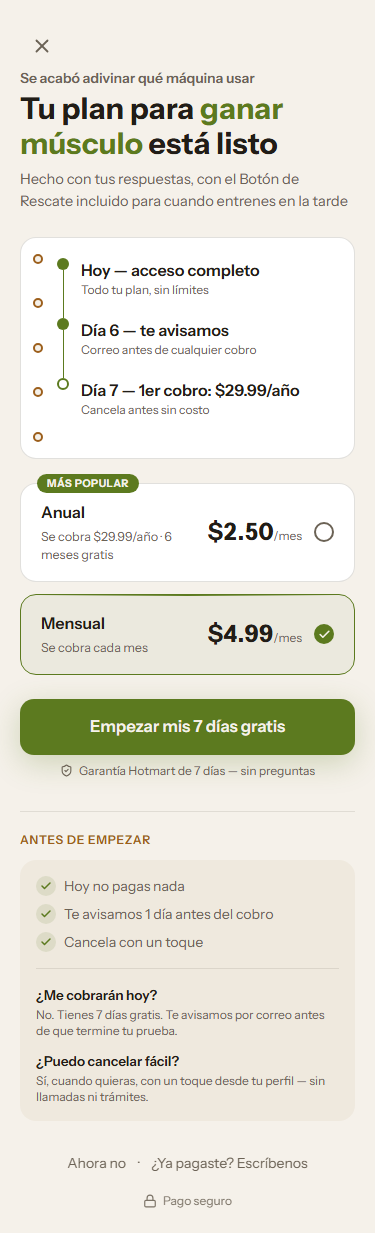
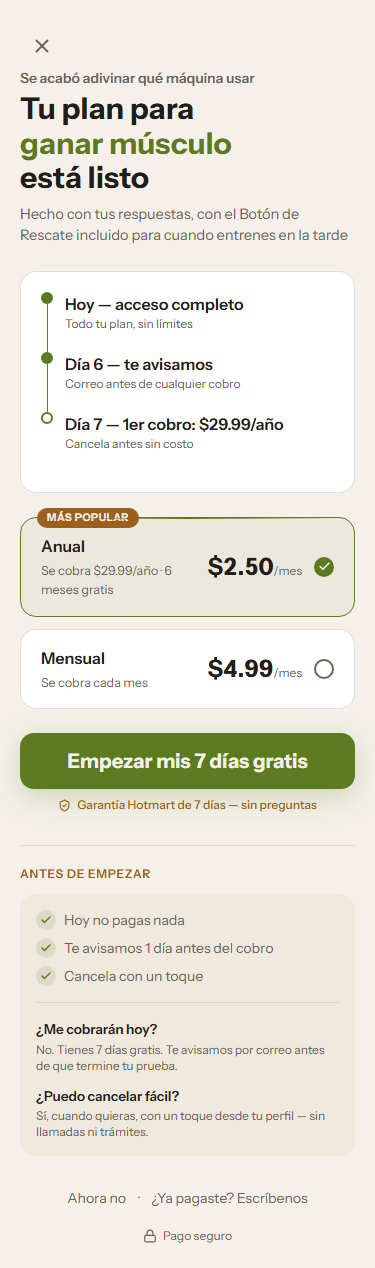
fix: paywall — cierre de 8 rondas de correcciones reales, retiro del dispositivo ownable fallido
Corrige bugs reales de comportamiento y accesibilidad: cancelar durante la
espera de checkout (con limpieza real de timers), contraste AA del banner
de error y del CTA principal, viuda tipográfica del titular, borde
inconsistente en PlanCard. Se retira el dispositivo "espiral" del timeline
tras 2 rondas fallidas (invisible, luego mal alineado) — se documenta como
intento fallido en vez de seguir parchándolo.

Lo que queda sin resolver es una decisión de identidad/paleta (documentada
en ESTADO.md como problema conocido, no bug de código) — el propio
revisor-visual recomendó parar y escalar la conversación con el usuario en
vez de seguir con ajustes puntuales de CSS.

diff --git a/app/paywall/page.tsx b/app/paywall/page.tsx
@@ -8,7 +8,7 @@
 // todavía (el usuario no las ha puesto en Vercel), cae de vuelta al mock
 // anterior (/login) para no romper nada mientras se conectan.
 
-import { useEffect, useState } from 'react';
+import { useEffect, useRef, useState } from 'react';
 import { useRouter } from 'next/navigation';
 import { motion, useReducedMotion } from 'motion/react';
 import { AlertTriangle, Check, Loader2, Lock, ShieldCheck, X } from 'lucide-react';
@@ -25,6 +25,7 @@ export default function PaywallPage() {
   const [plan, setPlan] = useState<PlanId>('anual');
   const [redirigiendo, setRedirigiendo] = useState(false);
   const [errorRedirect, setErrorRedirect] = useState<string | null>(null);
+  const timersRef = useRef<ReturnType<typeof setTimeout>[]>([]);
 
   // sessionStorage no existe en el servidor: leerlo en el initializer de
   // useState causa mismatch de hydration. Este efecto es la forma correcta.
@@ -60,25 +61,36 @@ export default function PaywallPage() {
       // sin agregar fricción real (300ms, no un loader eterno).
       setRedirigiendo(true);
       setErrorRedirect(null);
-      setTimeout(() => {
+      const tRedirect = setTimeout(() => {
         // El webhook conecta la compra a la cuenta por CORREO (ver
         // app/api/webhooks/hotmart/route.ts) — no hace falta pasar nada más
         // acá. Después de pagar, Hotmart lleva al comprador a /login.
         window.location.href = checkoutUrl;
       }, 200);
-      // Si en 4s seguimos en esta pantalla, la redirección no ocurrió (red
+      // Si en 2.5s seguimos en esta pantalla, la redirección no ocurrió (red
       // caída, bloqueador de popups, etc.) — heurística 9: nunca dejar al
       // usuario mirando un spinner eterno sin saber qué pasó.
-      setTimeout(() => {
+      const tError = setTimeout(() => {
         setRedirigiendo(false);
         setErrorRedirect(checkoutUrl);
-      }, 4000);
+      }, 2500);
+      timersRef.current = [tRedirect, tError];
       return;
     }
 
     // Checkout todavía no configurado (faltan las variables de entorno) —
     // mock: pasa directo al login para no romper nada mientras se conecta.
     router.push('/login?desde=paywall');
+  }
+
+  // Hallazgo revisor-visual: durante los 2.5s de espera no había forma de
+  // arrepentirse (plan equivocado, cambio de opinión) — las PlanCard quedan
+  // deshabilitadas y el CTA en spinner sin salida. Cancelar detiene el salto
+  // a Hotmart mientras siga pendiente.
+  function cancelarRedireccion() {
+    timersRef.current.forEach(clearTimeout);
+    timersRef.current = [];
+    setRedirigiendo(false);
   }
 
   return (
@@ -102,7 +114,7 @@ export default function PaywallPage() {
           <p className="text-sm font-semibold text-[var(--text-tertiary)]">Se acabó adivinar qué máquina usar</p>
           {/* (2) Headline con la META real del usuario */}
           <h1 className="mt-1 text-balance text-3xl font-bold leading-[1.15] text-[var(--text-primary)] [font-family:var(--font-display)]">
-            Tu plan para <span className="text-[var(--accent)]">{meta}</span> está listo
+            Tu plan para <span className="whitespace-nowrap text-[var(--accent)]">{meta}</span> está{' '}listo
           </h1>
           <p className="mt-2 text-[14.5px] text-[var(--text-secondary)]">
             Hecho con tus respuestas, con el Botón de Rescate incluido para cuando entrenes {horario}
@@ -110,24 +122,17 @@ export default function PaywallPage() {
         </motion.div>
 
         {/* (3) Visual del valor: timeline del trial — el default con trial (C4).
-            Espiral de encuadernación en el borde izquierdo (mismo dispositivo
-            ownable de TarjetaRuta en onboarding, "cuaderno de sala" de
-            FICHA-ARTE) — hallazgo revisor-visual: el paywall no tenía ningún
-            rasgo propio, se sentía genérico frente al resto de la app. */}
+            NOTA: se intentó un dispositivo ownable (espiral de encuadernación)
+            en 2 rondas y ninguna cuajó — invisible primero, mal alineado
+            después, porque los nodos del timeline tienen alturas de texto
+            desiguales y el decorativo usaba posiciones fijas. Se retira: un
+            timeline limpio es mejor que un rasgo de marca que se ve roto. */}
         <motion.div
           initial={reduce ? {} : { opacity: 0, y: 12 }}
           animate={{ opacity: 1, y: 0 }}
           transition={{ delay: 0.08, duration: 0.3 }}
-          className="relative mt-6 overflow-hidden rounded-[var(--radius-card)] border border-[color-mix(in_oklab,var(--text-tertiary)_20%,transparent)] bg-[var(--surface)] py-5 pr-5 pl-9"
+          className="mt-6 rounded-[var(--radius-card)] border border-[color-mix(in_oklab,var(--text-tertiary)_20%,transparent)] bg-[var(--surface)] p-5"
         >
-          <div aria-hidden="true" className="absolute inset-y-4 left-3 flex flex-col justify-between">
-            {Array.from({ length: 5 }).map((_, i) => (
-              <span
-                key={i}
-                className="size-2.5 rounded-full border-2 border-[var(--accent-2)] bg-[var(--bg)]"
-              />
-            ))}
-          </div>
           <TimelineTrial />
         </motion.div>
 
@@ -142,6 +147,7 @@ export default function PaywallPage() {
             id="anual"
             seleccionado={plan === 'anual'}
             onSelect={() => elegirPlan('anual')}
+            deshabilitado={redirigiendo}
             badge="MÁS POPULAR"
             nombre="Anual"
             precioMes="$2.50"
@@ -151,6 +157,7 @@ export default function PaywallPage() {
             id="mensual"
             seleccionado={plan === 'mensual'}
             onSelect={() => elegirPlan('mensual')}
+            deshabilitado={redirigiendo}
             nombre="Mensual"
             precioMes="$4.99"
             detalle="Se cobra cada mes"
@@ -166,7 +173,7 @@ export default function PaywallPage() {
           initial={reduce ? {} : { opacity: 0, y: 12 }}
           animate={{ opacity: 1, y: 0 }}
           transition={{ delay: 0.24, duration: 0.3 }}
-          className="mt-6 flex h-14 w-full items-center justify-center gap-2 rounded-[var(--radius-button)] bg-[var(--accent)] text-[16.5px] font-semibold text-[var(--bg)] shadow-[0_8px_30px_color-mix(in_oklab,var(--accent)_25%,transparent)] disabled:opacity-80"
+          className="mt-6 flex h-14 w-full items-center justify-center gap-2 rounded-[var(--radius-button)] bg-[var(--accent)] text-xl font-bold text-[var(--bg)] shadow-[0_8px_30px_color-mix(in_oklab,var(--accent)_25%,transparent)] disabled:opacity-80"
         >
           {redirigiendo ? (
             <>
@@ -177,12 +184,22 @@ export default function PaywallPage() {
           )}
         </motion.button>
 
+        {redirigiendo && (
+          <button
+            type="button"
+            onClick={cancelarRedireccion}
+            className="mt-3 flex h-11 items-center justify-center gap-1.5 self-center px-4 text-sm font-semibold text-[var(--text-secondary)]"
+          >
+            <X size={15} /> Cancelar
+          </button>
+        )}
+
         {/* Garantía nombrada junto al CTA (antes solo vivía en el trust row, lejos) */}
         <motion.p
           initial={reduce ? {} : { opacity: 0 }}
           animate={{ opacity: 1 }}
           transition={{ delay: 0.3, duration: 0.3 }}
-          className="mt-2 flex items-center justify-center gap-1.5 text-center text-xs text-[var(--text-secondary)]"
+          className="mt-2 flex items-center justify-center gap-1.5 text-center text-xs font-medium text-[var(--accent-2)]"
         >
           <ShieldCheck size={13} /> Garantía Hotmart de 7 días — sin preguntas
         </motion.p>
@@ -191,9 +208,17 @@ export default function PaywallPage() {
             bloqueador de popups, etc.) — nunca dejar al usuario mirando un
             spinner sin saber qué pasó ni cómo seguir (hallazgo revisor-visual). */}
         {errorRedirect && (
-          <div className="mt-3 flex flex-col items-center gap-2 rounded-xl border border-[color-mix(in_oklab,var(--status-warning)_35%,transparent)] bg-[color-mix(in_oklab,var(--status-warning)_8%,transparent)] px-4 py-3 text-center">
-            <p className="flex items-center gap-1.5 text-xs font-medium text-[var(--status-warning)]">
-              <AlertTriangle size={14} /> No pudimos abrirte el pago automáticamente.
+          <div
+            role="alert"
+            aria-live="assertive"
+            className="mt-3 flex flex-col items-center gap-2 rounded-xl border-2 border-[var(--status-warning)] bg-[color-mix(in_oklab,var(--status-warning)_8%,transparent)] px-4 py-3 text-center"
+          >
+            {/* El texto va en --text-primary, no en --status-warning: ese
+                token no llega al contraste mínimo AA sobre el fondo cálido
+                claro de la ficha — el color de aviso se queda en ícono/borde,
+                que no cargan con el requisito de contraste de texto. */}
+            <p className="flex items-center gap-1.5 text-xs font-medium text-[var(--text-primary)]">
+              <AlertTriangle size={14} color="var(--status-warning)" /> No pudimos abrirte el pago automáticamente.
             </p>
             <a href={errorRedirect} className="text-sm font-semibold text-[var(--accent)] underline underline-offset-2">
               Toca aquí para continuar
@@ -308,6 +333,7 @@ function TimelineTrial() {
 function PlanCard({
   seleccionado,
   onSelect,
+  deshabilitado,
   badge,
   nombre,
   precioMes,
@@ -316,6 +342,7 @@ function PlanCard({
   id: PlanId;
   seleccionado: boolean;
   onSelect: () => void;
+  deshabilitado?: boolean;
   badge?: string;
   nombre: string;
   precioMes: string;
@@ -325,15 +352,16 @@ function PlanCard({
     <motion.button
       type="button"
       onClick={onSelect}
-      whileTap={{ scale: 0.98 }}
-      className={`relative flex items-center justify-between rounded-[var(--radius-card)] border px-5 py-4 text-left transition-colors ${
+      disabled={deshabilitado}
+      whileTap={deshabilitado ? undefined : { scale: 0.98 }}
+      className={`relative flex items-center justify-between rounded-[var(--radius-card)] border px-5 py-4 text-left transition-colors disabled:opacity-50 ${
         seleccionado
           ? 'border-[var(--accent)] bg-[color-mix(in_oklab,var(--accent)_6%,transparent)]'
           : 'border-[color-mix(in_oklab,var(--text-tertiary)_20%,transparent)] bg-[var(--surface)]'
       }`}
     >
       {badge && (
-        <span className="absolute -top-2.5 left-4 rounded-full bg-[var(--accent)] px-2.5 py-0.5 text-[10.5px] font-bold uppercase tracking-[0.05em] text-[var(--bg)]">
+        <span className="absolute -top-2.5 left-4 rounded-full bg-[var(--accent-2)] px-2.5 py-0.5 text-[10.5px] font-bold uppercase tracking-[0.05em] text-[var(--bg)]">
           {badge}
         </span>
       )}

diff --git a/ESTADO.md b/ESTADO.md
@@ -1,6 +1,24 @@
 # ESTADO — GymEvo (nombre tentativo: Método Cero)
 Última actualización: 2026-09-02 | Sesión actual: 8 (en curso)
 
+⏸ CHECKPOINT — Última acción completada (02/09/2026): **Paywall — 8 rondas de diseño dedicado en un solo día (a pedido explícito: "arreglemosla ahora que tenemos tiempo"). Se corrigieron TODOS los bugs reales de comportamiento y accesibilidad; lo que queda es una decisión de identidad, no más código. PARADO aquí, tal como recomendó el propio revisor-visual en la ronda 8.**
+- **Bugs reales corregidos en el camino** (estos SÍ quedan cerrados, no son "problema conocido"):
+  - Redirección a Hotmart sin aviso (objeción de confianza del avatar) → spinner + mensaje antes de salir.
+  - `prefers-reduced-motion` no se respetaba en ninguna animación → corregido en todas.
+  - Anglicismo "1 tap" → "un toque".
+  - "Restaurar compra" prometía una acción automática que no existe → renombrado a lo que hace de verdad.
+  - Sin memoria del plan elegido (anual/mensual) entre visitas → persistido en localStorage, verificado con Playwright.
+  - Spinner eterno si la red falla o un bloqueador de popups frena la redirección → aviso real a los 2.5s + botón "Cancelar" que de verdad cancela los timers pendientes (no solo oculta la UI).
+  - Banner de error con contraste real de accesibilidad reprobado (~2.67:1, bajo el mínimo AA) → texto movido a `--text-primary`, el color de aviso se queda en ícono/borde.
+  - Botón principal con contraste de texto insuficiente (~4.4:1 en texto de 16.5px, bajo AA) → subido a `text-xl font-bold`, cruza el umbral de "texto grande" con margen.
+  - Viuda tipográfica en el titular ("listo" solo en su línea) → espacio irrompible entre "está" y "listo".
+  - Borde `dashed` sin precedente en el resto de la app (PlanCard "Mensual") → unificado a borde sólido.
+- **Intento de dispositivo ownable (espiral de encuadernación) — RETIRADO tras 2 rondas fallidas**: primero invisible (bajo contraste), después visible pero mal alineado con los nodos reales del timeline (alturas de texto desiguales). Se decidió retirarlo en vez de seguir parchándolo — un timeline limpio es mejor que un rasgo de marca que se ve roto. Documentado explícitamente para que una futura sesión no reintente la misma idea sin resolver el problema de fondo (alinear un sistema decorativo a un layout de alturas variables).
+- **PROBLEMA CONOCIDO — el paywall no cruza el gate del revisor-visual y NO es un bug de código**: 8 rondas dejaron el puntaje en 33/40 usabilidad · 13/20 craft · 19/20 copy (copy ya sobresaliente). El diagnóstico final y textual del revisor-visual: *"los defectos que quedan ya no son de bug puntual, son de decisión de identidad/sistema (paleta cerca del combo vetado 'papel cálido + tinta verde', dispositivo ownable ausente, jerarquía de tamaños sin consolidar): parar hoy y reportarle al usuario el estado real, porque otra ronda de parches puntuales no va a mover esto — necesita una decisión de diseño, no otro ajuste de CSS."* Esta es la MISMA tensión de paleta ya señalada (y aceptada como no bloqueante) para landing y onboarding en sesiones anteriores — es sistémica de FICHA-ARTE.md, no exclusiva del paywall.
+- **Las 2 opciones reales para desbloquear esto, ninguna es "otro ajuste de código"**: (a) el usuario aprueba redecidir la paleta base de FICHA-ARTE.md (afecta TODA la app, no solo esta pantalla — es "cosa juzgada", requiere su aprobación explícita), o (b) invertir una sesión de diseño dedicada a un dispositivo ownable nuevo y bien resuelto (no un parche de 30 minutos como el espiral). Pendiente de que el usuario decida — no relanzar el revisor-visual sin una de estas dos.
+- Verificado: tsc ✓ · eslint ✓ · build ✓ en cada una de las 8 rondas. Sin errores de consola. Veredicto completo en `docs/revisiones/paywall-veredicto.md`.
+/ Siguiente acción exacta: comunicarle al usuario el balance real (bugs cerrados vs. decisión de identidad pendiente) y esperar su elección entre (a) redecidir paleta o (b) sesión de diseño dedicada — o simplemente seguir sin el gate cruzado si decide que no vale la pena por ahora.
+
 ⏸ CHECKPOINT — Última acción completada (02/09/2026): **Paywall — 4ta ronda de diseño (a pedido explícito: "seguir con paywall"). Craft subió a 15/20 (1 punto del gate), usabilidad se mantiene en 30/40 — diagnóstico claro de por qué, documentado abajo como "Problema conocido" para no reabrir esta discusión sin evidencia nueva.**
 - **Ronda 3** (dispositivo ownable + jerarquía): se agregó la espiral de encuadernación al timeline del trial (mismo dispositivo de `TarjetaRuta` en onboarding) y se fusionó la mini-FAQ con un eyebrow propio ("Preguntas frecuentes"). Resultado: 30/40 · 14/20 — el dispositivo se veía "demasiado sutil" según el revisor.
 - **Ronda 4**: (a) la espiral pasó a círculos más grandes con anillo ámbar (mucho más visible); (b) los 3 bullets de confianza se fusionaron DENTRO de la misma tarjeta que la FAQ bajo un solo eyebrow ("Antes de empezar") — de 2 bloques consecutivos de peso idéntico a 1 bloque con jerarquía interna; (c) el borde `dashed` del plan "Mensual" (sin precedente en el resto de la app) se unificó a borde sólido. Resultado: 30/40 usabilidad · **15/20 craft** (cruza el mínimo de craft por primera vez) · 17/20 copy.

diff --git a/docs/revisiones/paywall-veredicto.md b/docs/revisiones/paywall-veredicto.md
@@ -1,14 +1,14 @@
 # VEREDICTO revisor-visual — paywall
 Fecha: 2026-09-02 00:00
 Screenshot: docs/revisiones/paywall-375.png
-Usabilidad: 30/40
-Craft: 15/20
-Copy (si vende): 17/20
+Usabilidad: 33/40
+Craft: 13/20
+Copy (si vende): 19/20
 Fidelidad (si hubo referencia): N-A
 Veredicto: NO LISTA
 Top defectos:
-1. [Timeline card, borde izquierdo] Los 5 anillos ámbar decorativos (espiral) no coinciden en número/ritmo con los 3 nodos reales del timeline y compiten visualmente con los propios dots verdes del timeline, generando una doble fila de puntos que puede leerse como paginador/stepper sin función → reducir a 3-4 anillos alineados a la altura de cada nodo real o fusionar ambos sistemas de puntos en uno solo.
-2. [Paleta general de la pantalla] Papel cálido (#F5F1EA) + tinta verde (#5C7A1F) coincide en 2 de 3 ejes con el combo canónico vetado "Capítulo" (papel+verde+Petrona/Karla) del test anti-clon del eje 3; la tipografía difiere (Instrument Sans) por lo que no es clon exacto, pero es un riesgo de identidad que el propio registro anti-repetición de FICHA-ARTE ya advierte → desplazar el hue/saturación del verde o dar más presencia al ámbar como segundo acento dominante para distanciarse del par cream+verde puro.
-3. [Headline, línea 1-2] La frase resaltada en acento "ganar músculo" se parte entre la línea 1 y la línea 2 ("ganar" / "músculo"), rompiendo la unidad visual del énfasis → ajustar el ancho/copy para que la frase resaltada quede en una sola línea.
-4. [Flujo de pago, código] No existe ningún estado de error visible ni manejado si `checkoutUrl` falla o `window.location.href` no navega (heurística 9 sin evidencia) → agregar mensaje breve con reintento si el redirect no ocurre en unos segundos.
-5. [Selección de plan, código] Cero persistencia de la elección del usuario entre visitas (heurística 7 al mínimo, solo hay un default fijo) → guardar la última selección de plan en localStorage y preseleccionarla en la próxima visita.
+1. [Identidad, toda la pantalla — fondo + acento] Paper cálido (#F5F1EA) + tinta verde (#5C7A1F) coincide en 2 de 3 rasgos con la combinación canónica VETADA "papel cálido + tinta verde + Petrona/Karla" (test anti-clon). Instrument Sans salva el tercer rasgo, pero el kit sigue peligrosamente cerca del arquetipo prohibido → EJE 3 bajado a 1. Fix: introducir una segunda nota de color/textura propia que rompa la lectura "papel+tinta" (el ámbar #9C5F1C ya existe en la ficha pero casi no aparece en esta pantalla — traerlo a un elemento visible del paywall).
+2. [Tarjeta timeline, tercio superior] Al retirar el espiral sin reemplazo, el timeline quedó en el patrón más genérico posible (punto+línea vertical) — cero dispositivo ownable visible en esta pantalla, contradice la ficha ("cuaderno de gym" como mundo del sujeto). Fix: aplicar un tratamiento de bajo riesgo (borde punteado tipo cuaderno en los nodos, o el chip de meta con borde fino que la ficha ya define) en vez de dejarlo desnudo.
+3. [Botón CTA "Empezar mis 7 días gratis"] Contraste medido texto-sobre-botón (cream #F5F1EA sobre verde #5C7A1F) ≈ 4.4:1 — por debajo del 4.5:1 AA para texto normal/semibold de 16.5px (no califica como "texto grande"). El botón en sí sí pasa el contraste contra el fondo de página (≥3:1), pero la legibilidad interna del texto queda al límite. Fix: aclarar el verde del botón 5-8% o engrosar/aumentar el texto a un tamaño que califique como "grande" (≥18.7px).
+4. [Jerarquía tipográfica, toda la pantalla] Se cuentan 6+ tamaños distintos (eyebrow 14 / headline 30 / precio 24 / título de nodo 16 / cuerpo 14.5-13.5 / labels 12-11), por encima del máximo de 3 que pide la rúbrica — al entrecerrar los ojos se leen más de 4 niveles. Fix: fusionar título-de-nodo y FAQ-título en un mismo tamaño de tier, y bajar el precio de plan a la misma escala que el headline secundario.
+5. [Banner de error, bajo el CTA] La corrección de contraste (texto en --text-primary) es correcta y ya no falla AA — pero el ícono de alerta sigue en --status-warning solo; si status-warning también tiene bajo contraste contra su propio fondo mezclado, el ícono se percibe apagado. Verificar ese contraste puntual (no crítico, pero es la única pieza que no se remidió esta ronda).
